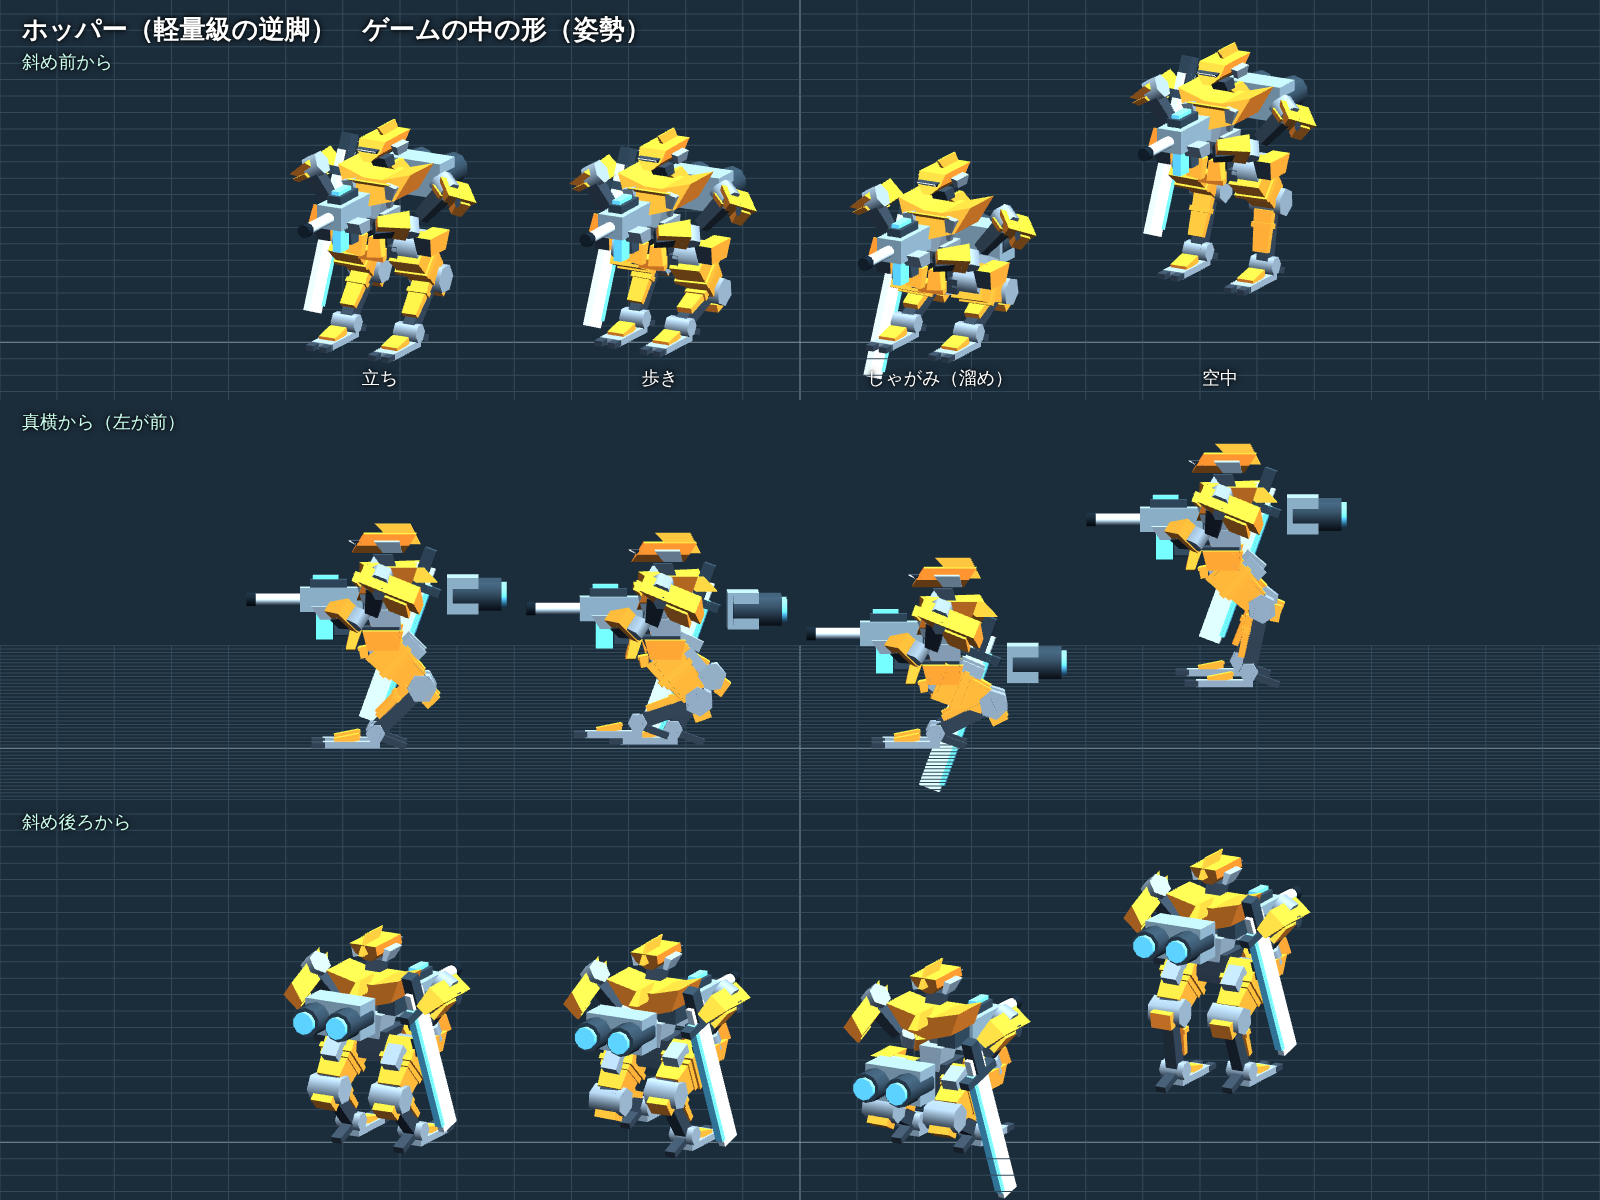
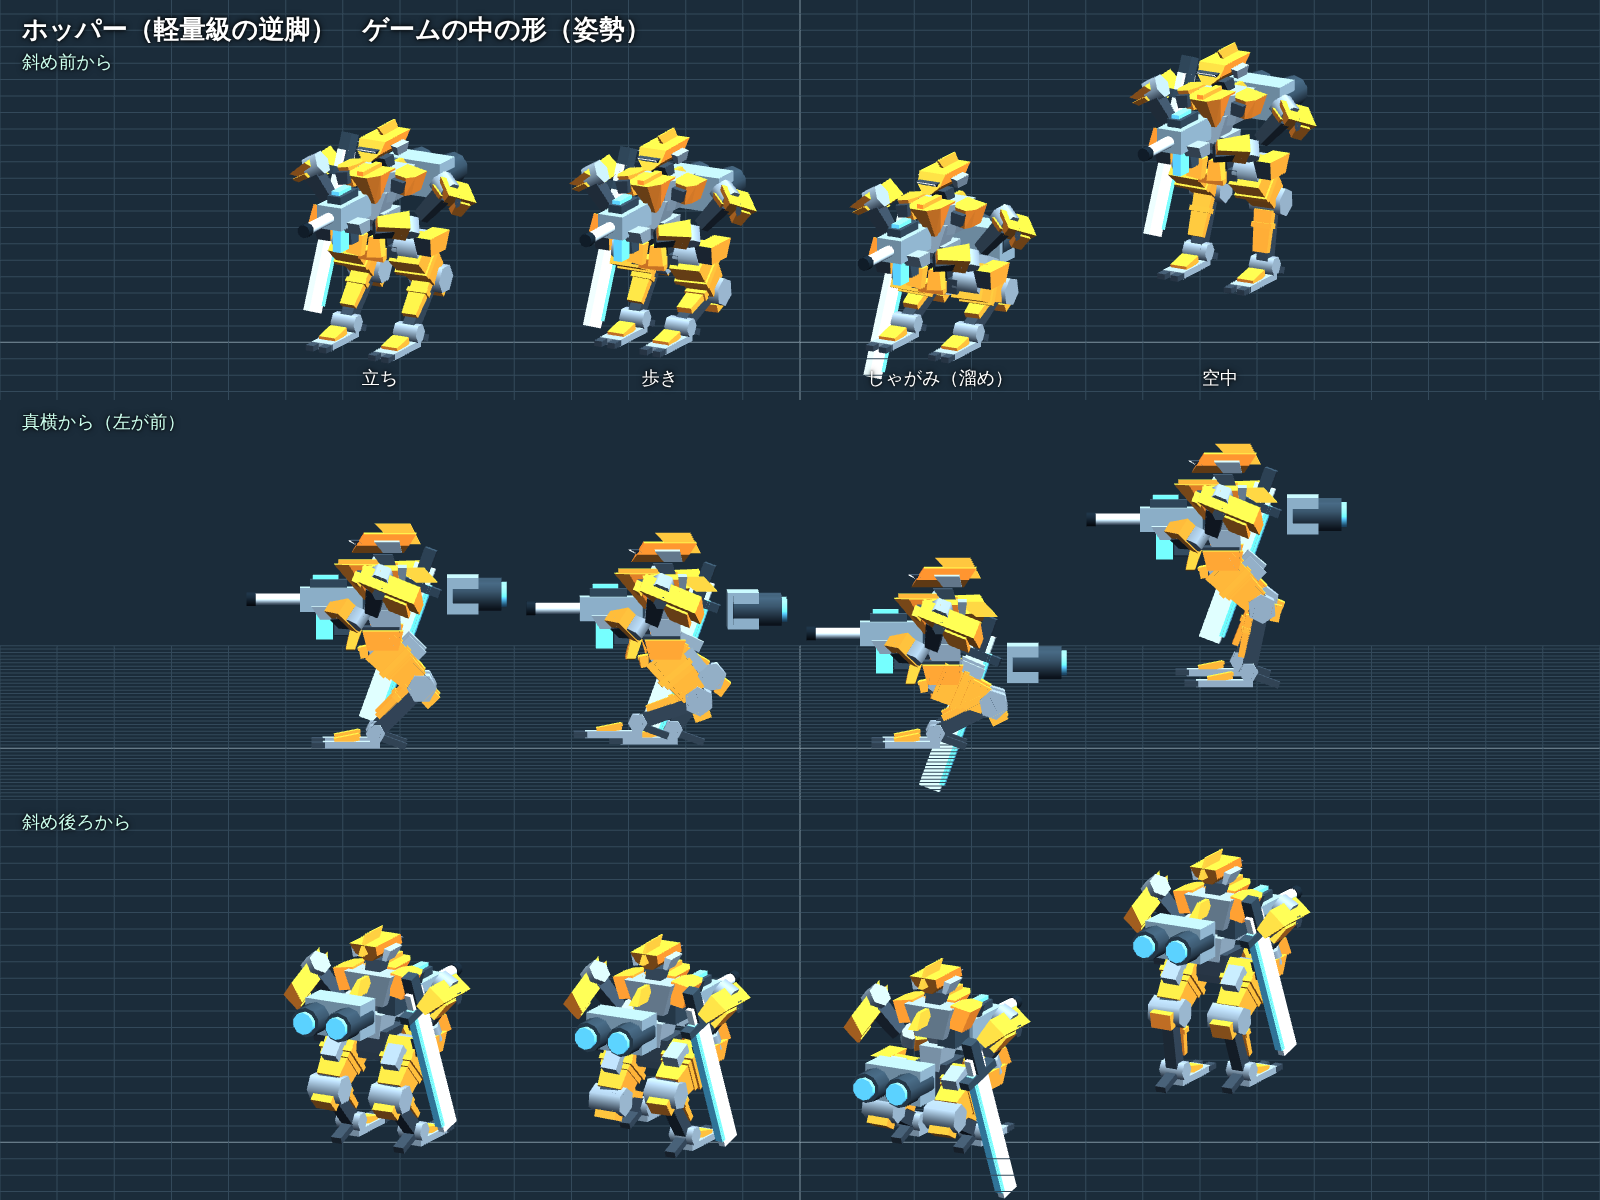
#228 ドーザーとホッパーの胴の正面を、板を貼る形から塊の組み合わせに作り直す
オーナーの希望（2026-11-11）：正面を平らにしない。前へ突き出す塊、一段下がった箱、奥まった吸気口。
混成の形の試験の箱数の目安を 66 から 70 へ。

Claude-Session: https://claude.ai/code/session_01PsVEZx2iucU6G2KmAEXVEx

diff --git a/prototype/index.html b/prototype/index.html
@@ -3815,13 +3815,15 @@ const SERIES_BODY_SHAPES={
       h(.44,.19,.16,'frame',0,3.55,-.43,{bottom:.8});h(.50,.085,.20,'trim',0,3.40,-.22,{bottom:1});
       h(.12,.30,.12,'metal',.34,3.79,.34,{bottom:1});
     },
-    // 胸：砲塔のような八角の箱、下の防盾、前の2枚の傾いた装甲
+    // 胸：八角の箱の前へ、角を落とした操縦席の塊が突き出し、左右に一段下がった箱、その間は奥まった吸気口（正面を平らにしない。オーナーの希望 2026-11-11）
     chest(a,p,O){const c=(w,h,d,col,x,y,z,shape={},tilt=0)=>a(w,h,d,col,x,y,z,'chest',shape,tilt);
-      c(2.14,.62,1.34,'armor',0,2.92,.08,{outline:O.octagon,rake:.04});
+      c(2.14,.62,1.16,'armor',0,2.92,.18,{outline:O.octagon,rake:.04});
       c(1.46,.42,.96,'metal',0,2.56,.12,{bottom:.84});
-      for(const sd of[-1,1])c(.74,.46,.20,'armor',sd*.50,2.88,-.66,{bottom:.7,sweep:-.10},sd*-.10);
-      c(.30,.34,.16,'frame',0,2.86,-.66,{bottom:1});c(.56,.09,.06,'trim',0,3.08,-.70,{bottom:1});
-      c(1.60,.12,1.0,'armor',0,3.26,.10,{bottom:.9});
+      c(.76,.66,.60,'armor',0,2.92,-.62,{facet:1,top:.70,bottom:1,depth:1,sweep:-.12});
+      for(const sd of[-1,1]){c(.50,.50,.42,'armor',sd*.74,2.96,-.50,{facet:1,top:1,bottom:.78,depth:.8,sweep:.06},sd*-.08);c(.20,.40,.24,'frame',sd*.44,2.92,-.44,{bottom:1,depth:1,sweep:0});}
+      c(1.16,.32,.50,'metal',0,2.50,-.50,{top:1,bottom:.6,depth:.5,sweep:.22});
+      c(.84,.10,.18,'trim',0,3.25,-.44,{bottom:1,depth:1,sweep:0});
+      c(1.60,.12,.90,'armor',0,3.26,.16,{bottom:.9});
     },
     // 肩：厚い板の肩当てと、外側の当て板
     shoulder(a,p,sd,O){const bone='arm'+(sd<0?'L':'R');
@@ -3839,12 +3841,13 @@ const SERIES_BODY_SHAPES={
       h(.10,.36,.62,'trim',0,3.76,.22,{top:.3,bottom:1,sweep:.26});
       for(const sd of[-1,1])h(.13,.20,.44,'metal',sd*.31,3.55,.12,{bottom:.6},sd*-.2);
     },
-    // 胸：前へ傾いた翼形の板と細い芯、背の小さな尾
+    // 胸：細い芯の前へ、鳥の胸のように突き出して下が引っ込む塊、左右に一段下がった吸気口の箱、背の小さな尾（正面を平らにしない。オーナーの希望 2026-11-11）
     chest(a,p,O){const c=(w,h,d,col,x,y,z,shape={},tilt=0)=>a(w,h,d,col,x,y,z,'chest',shape,tilt);
-      c(1.44,.62,.86,'armor',0,2.90,.02,{outline:O.wing,rake:.20});
-      c(.48,.56,.52,'metal',0,2.62,.04,{bottom:.42,sweep:-.14});
-      for(const sd of[-1,1])c(.22,.44,.15,'metal',sd*.38,2.80,-.36,{bottom:.3},sd*-.22);
-      c(.86,.08,.08,'trim',0,3.00,-.42,{bottom:.75});
+      c(.92,.58,.70,'metal',0,2.90,.12,{facet:1,top:1,bottom:.6,depth:.8,sweep:0});
+      c(.48,.50,.52,'metal',0,2.56,.04,{bottom:.42,sweep:-.14});
+      c(.62,.62,.80,'armor',0,2.92,-.40,{facet:1,top:1,bottom:.34,depth:.45,sweep:.30});
+      for(const sd of[-1,1]){c(.40,.40,.62,'armor',sd*.54,3.00,.0,{facet:1,top:1,bottom:.6,depth:.8,sweep:.1},sd*-.18);c(.24,.22,.12,'frame',sd*.54,3.02,-.34,{bottom:.8,depth:1,sweep:0},sd*-.18);}
+      c(.12,.10,.70,'trim',0,3.26,-.38,{bottom:1,depth:1,sweep:0});
       c(.18,.26,.5,'armor',0,3.04,.52,{top:.4,bottom:1,sweep:.3});
     },
     // 肩：後ろへ流れる細い羽根

diff --git a/tools/test/mech_shapes_check.js b/tools/test/mech_shapes_check.js
@@ -47,7 +47,7 @@ const output = path.resolve(process.argv[3] || path.join(dir, 'mech-shapes'));
             const legacy=slots.every(slot=>legacyTypes.includes(cfg[slot]));
             // 腰ポッド24面＋肩口8面−撤去した背面箱12面＝20三角形。
             const joints = model.rig ? 10 * 2 + 4 + 10 + 20 / 12 : 0;
-            const budget = (legacy ? slots.reduce((sum, slot) => sum + original[slot][legacyTypes.indexOf(cfg[slot])], 0) * 1.5 : 66) + joints; // ドーザーの頭・胴・腕が入った混成のぶん、60 から 66 へ（#228）
+            const budget = (legacy ? slots.reduce((sum, slot) => sum + original[slot][legacyTypes.indexOf(cfg[slot])], 0) * 1.5 : 70) + joints; // ドーザーの頭・胴・腕が入った混成のぶん、60 から 70 へ（#228。胴の正面を塊で作ったぶんを含む）
             // 四脚は脚が4本なので、脚2本ぶん（30箱）を足す（#228）
             check(boxes <= budget + (g.PARTS.legs[cfg.legs].kind === 'quad' ? 30 : 0), label + ': 箱数が描画予算を超えた');
             maxBoxes = Math.max(maxBoxes, boxes);
